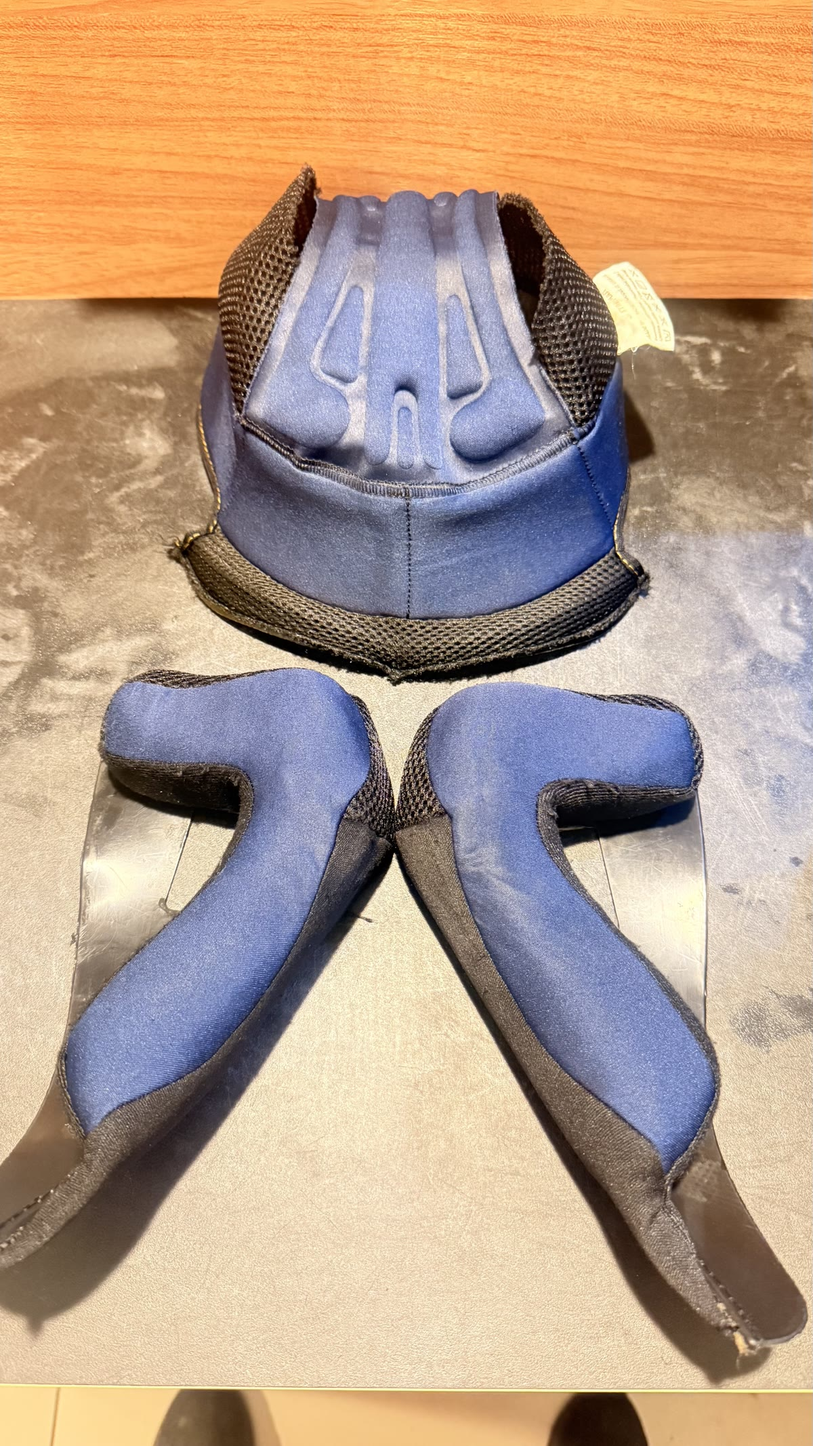
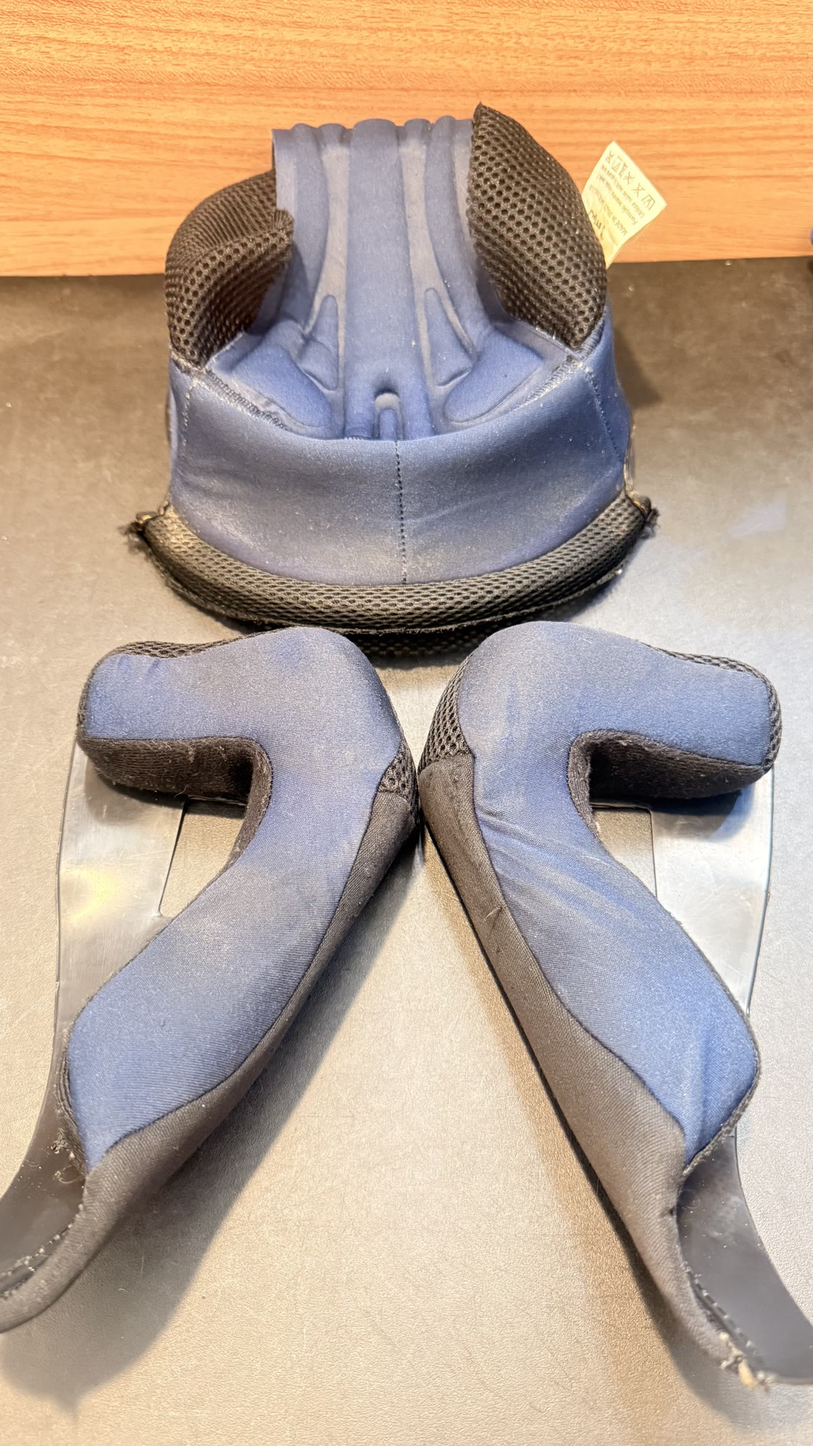
Restore second after photo in resultado section
Show Antes + Depois side by side and Depois 02 below, so both
after results are visible; bump styles.css to v=11.

diff --git a/index.html b/index.html
@@ -27,7 +27,7 @@
   <link rel="preconnect" href="https://fonts.googleapis.com">
   <link rel="preconnect" href="https://fonts.gstatic.com" crossorigin>
   <link href="https://fonts.googleapis.com/css2?family=Manrope:wght@400;600;700;800&family=Oxanium:wght@500;700;800&display=swap" rel="stylesheet">
-  <link rel="stylesheet" href="/styles.css?v=10">
+  <link rel="stylesheet" href="/styles.css?v=11">
 
   <script type="application/ld+json">
   {
@@ -290,7 +290,7 @@
           <h2>Cuidado que transforma</h2>
           <p>Não é “passar um paninho”. É processo: remover o que o olho não vê e o que o nariz já denunciou.</p>
         </div>
-        <div class="compare compare-antes-row">
+        <div class="compare">
           <article class="compare-card antes reveal">
             <div class="compare-media">
               <img src="/assets/antes-forro.jpg" alt="Antes: forro do capacete sujo, manchado e rasgado" width="1200" height="2133" loading="lazy">
@@ -301,26 +301,29 @@
               <p>Uso diário acumula umidade, oleosidade, poeira e bactérias. O capacete pesa no conforto — e na saúde.</p>
             </div>
           </article>
-          <article class="compare-card antes reveal reveal-delay-1">
+          <article class="compare-card depois reveal reveal-delay-1">
             <div class="compare-media">
-              <img src="/assets/antes-forro-2.jpg" alt="Antes 02: forros do capacete antes do cuidado ZapClin" width="1200" height="2133" loading="lazy">
-              <span class="label">ANTES 02</span>
+              <img src="/assets/depois-forro.jpg" alt="Depois: forro do capacete limpo e revitalizado pela ZapClin" width="1200" height="2133" loading="lazy">
+              <span class="label">DEPOIS</span>
             </div>
             <div class="compare-body">
-              <h3>Sujeira que o olho e o nariz já denunciam</h3>
-              <p>O forro absorve suor, oleosidade e resíduos. Sem higienização, o cheiro e o desconforto só aumentam.</p>
+              <h3>Interior renovado e seguro</h3>
+              <p>Higienizado, sem odor agressivo, com tecidos revitalizados. Mais conforto, mais higiene, mais vida útil.</p>
             </div>
           </article>
         </div>
-        <figure class="compare-extra depois reveal">
-          <div class="compare-media">
-            <img src="/assets/depois-forro.jpg" alt="Depois 02: forros higienizados, limpos e revitalizados pela ZapClin" width="1200" height="2133" loading="lazy">
-            <span class="label">DEPOIS 02</span>
-          </div>
-          <figcaption>
-            <strong>Depois do cuidado ZapClin:</strong> interior renovado, sem odor agressivo e pronto para usar — mais higiene, mais conforto, mais vida útil.
-          </figcaption>
-        </figure>
+        <div class="compare compare-depois-row">
+          <article class="compare-card depois reveal">
+            <div class="compare-media">
+              <img src="/assets/depois-forro-2.jpg" alt="Depois 02: outro ângulo dos forros higienizados pela ZapClin" width="1200" height="2133" loading="lazy">
+              <span class="label">DEPOIS 02</span>
+            </div>
+            <div class="compare-body">
+              <h3>Resultado que aparece e se sente</h3>
+              <p>Forros limpos, sem sujeira acumulada e prontos para voltar à estrada com mais higiene e conforto.</p>
+            </div>
+          </article>
+        </div>
       </div>
     </section>
 

diff --git a/styles.css b/styles.css
@@ -641,31 +641,14 @@ section { padding: 4.5rem 0; position: relative; z-index: 1; }
   margin: 0 0 0.45rem;
 }
 .compare-card p { color: var(--muted); }
-.compare-extra {
+.compare-depois-row {
   margin-top: 1rem;
-  border-radius: var(--radius);
-  border: 1px solid rgba(143,209,79,0.28);
-  overflow: hidden;
-  background:
-    radial-gradient(circle at 80% 20%, rgba(143,209,79,0.14), transparent 45%),
-    var(--bg-elev);
+  grid-template-columns: 1fr;
+  max-width: 560px;
 }
-.compare-extra.depois {
+.compare-depois-row .compare-card {
   border-color: rgba(143,209,79,0.4);
   box-shadow: 0 16px 40px rgba(0, 0, 0, 0.28);
-}
-.compare-extra .compare-media {
-  aspect-ratio: 16 / 10;
-  max-height: 480px;
-}
-.compare-extra figcaption {
-  padding: 1.05rem 1.25rem 1.25rem;
-  color: var(--muted);
-  font-size: 0.98rem;
-}
-.compare-extra figcaption strong {
-  color: var(--text);
-  font-weight: 800;
 }
 
 /* Locations */
